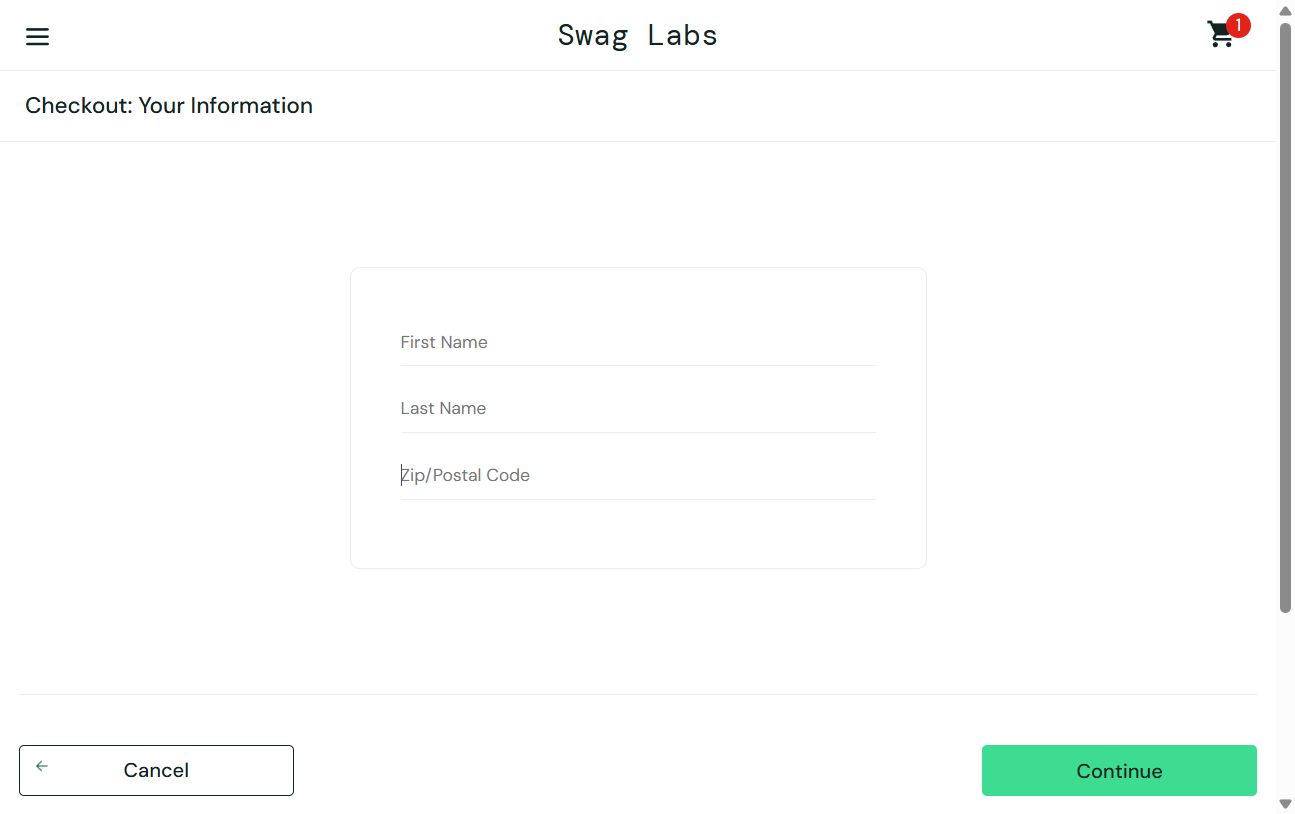
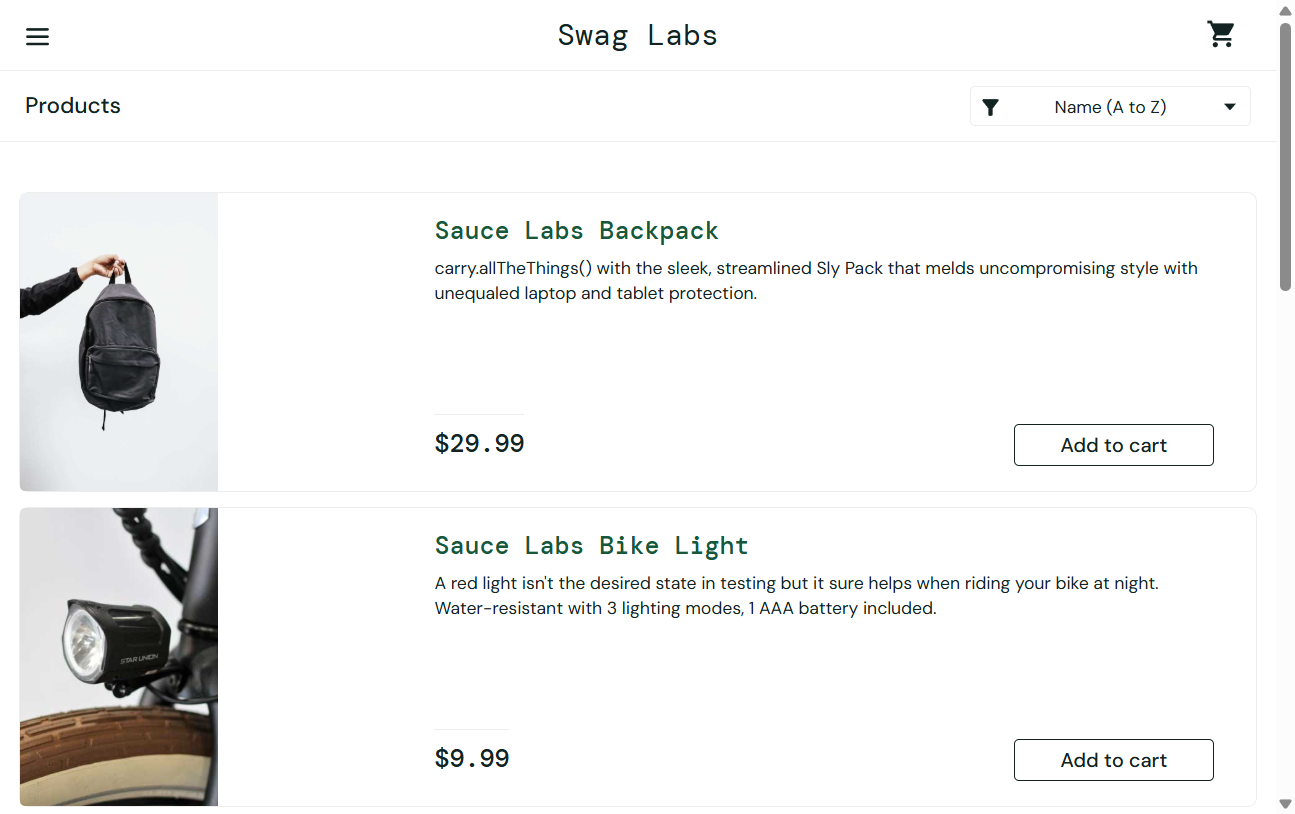
LAST PUSH

diff --git a/src/test/java/com/krct/LoginTest.java b/src/test/java/com/krct/LoginTest.java
@@ -1,12 +1,17 @@
 package com.krct;
 
 import com.krct.pages.LoginPage;
+import org.apache.commons.io.FileUtils;
 import org.openqa.selenium.By;
+import org.openqa.selenium.OutputType;
+import org.openqa.selenium.TakesScreenshot;
 import org.openqa.selenium.WebElement;
 import org.openqa.selenium.support.ui.ExpectedConditions;
 import org.testng.Assert;
 import org.testng.annotations.DataProvider;
 import org.testng.annotations.Test;
+
+import java.io.File;
 
 public class LoginTest extends BaseTest{
 
@@ -59,10 +64,25 @@ public class LoginTest extends BaseTest{
 
     @Test
     public void case5Test(){
-        driver.get(loginurl);
-        LoginPage login = new LoginPage(driver,wait);
-        login.details(config.getUsername(), config.getPassword());
-        login.clickLogin();
-        Assert.assertTrue(driver.getCurrentUrl().contains("inventory"));
+        try {
+            driver.get(loginurl);
+            LoginPage login = new LoginPage(driver,wait);
+            login.details(config.getUsername(), config.getPassword());
+            login.clickLogin();
+            Assert.assertTrue(driver.getCurrentUrl().contains("inventory"));
+
+        } catch (Exception e) {
+            try {
+                TakesScreenshot ts = (TakesScreenshot) driver;
+                File source = ts.getScreenshotAs(OutputType.FILE);
+                File destination = new File("screenshot.png");
+                FileUtils.copyFile(source, destination);
+                System.out.println("Screenshot Taken");
+
+            } catch (Exception ex) {
+                ex.printStackTrace();
+            }
+            e.printStackTrace();
+        }
     }
 }